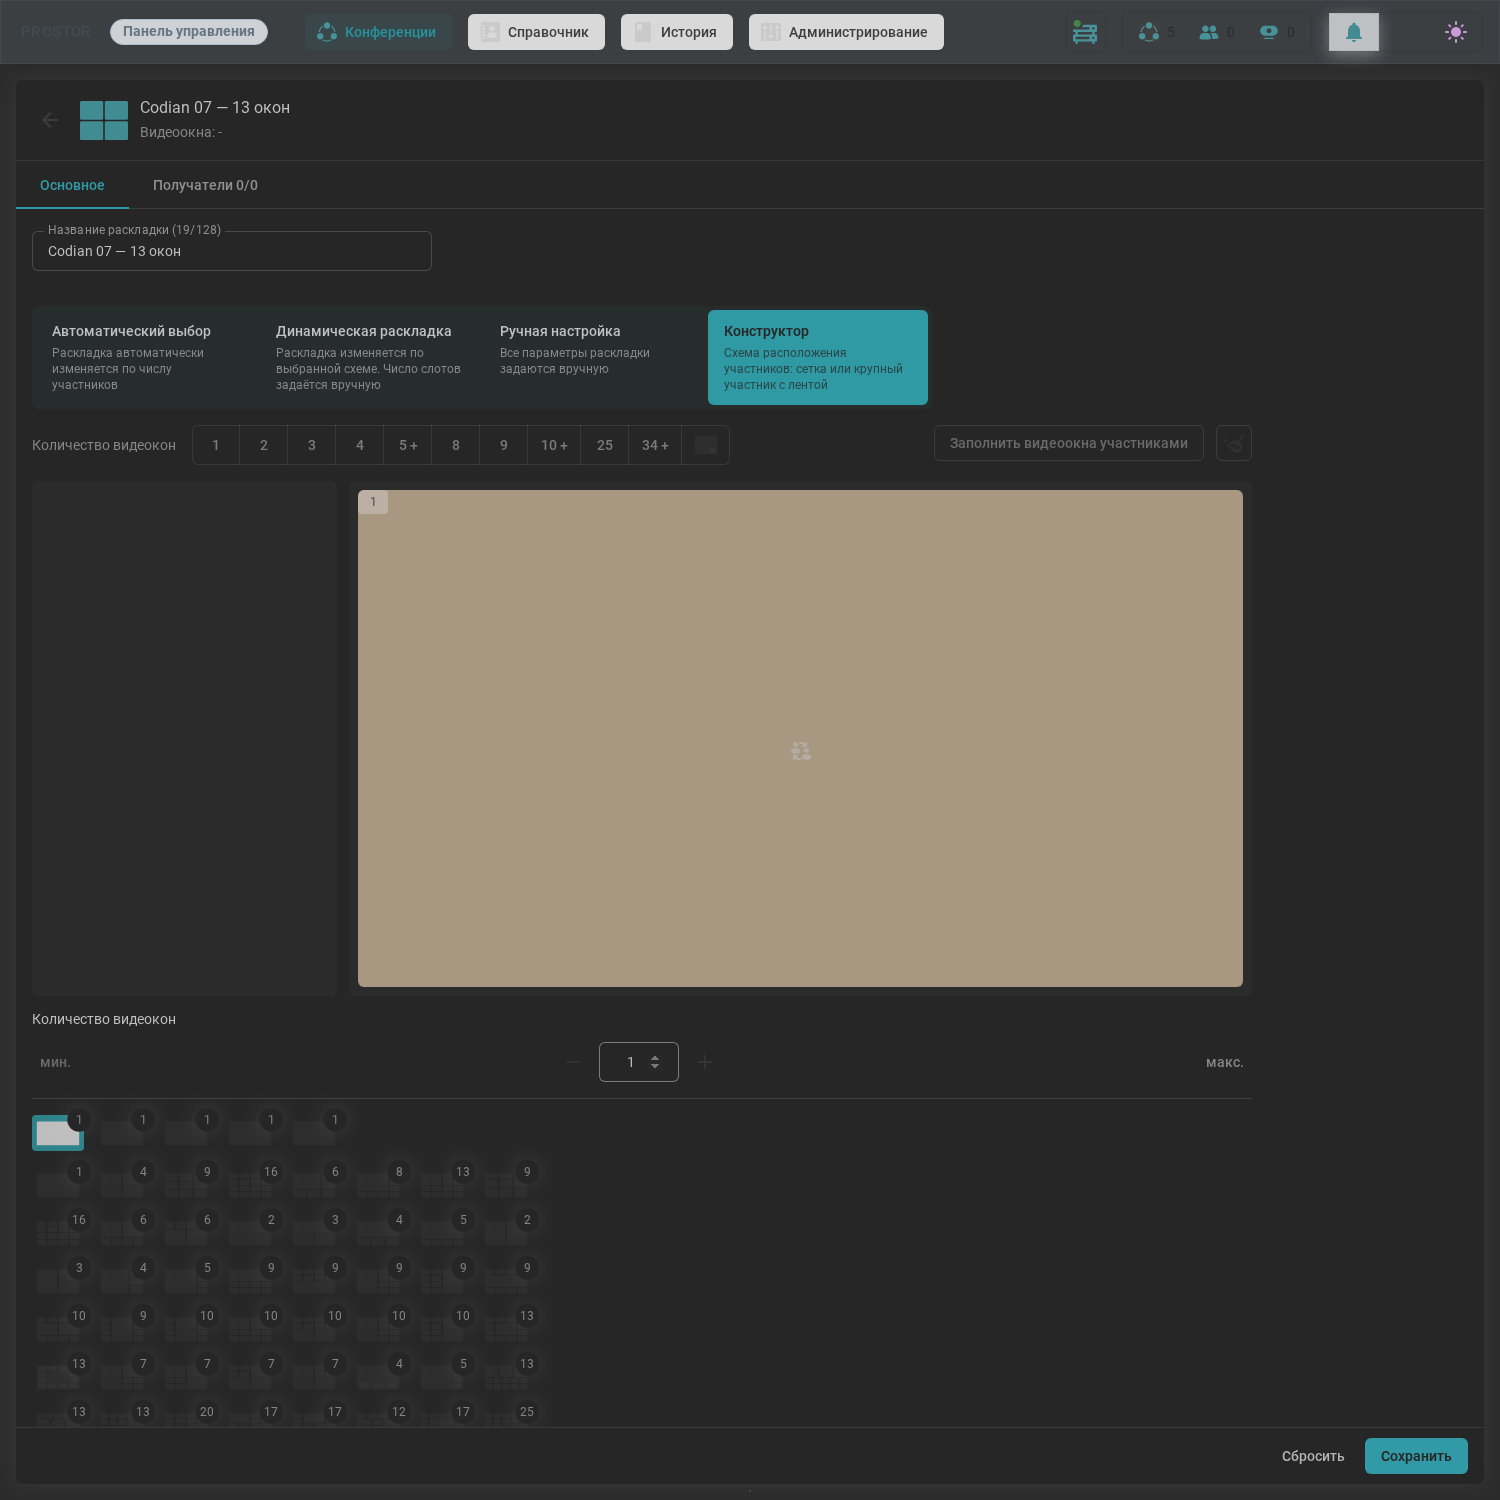
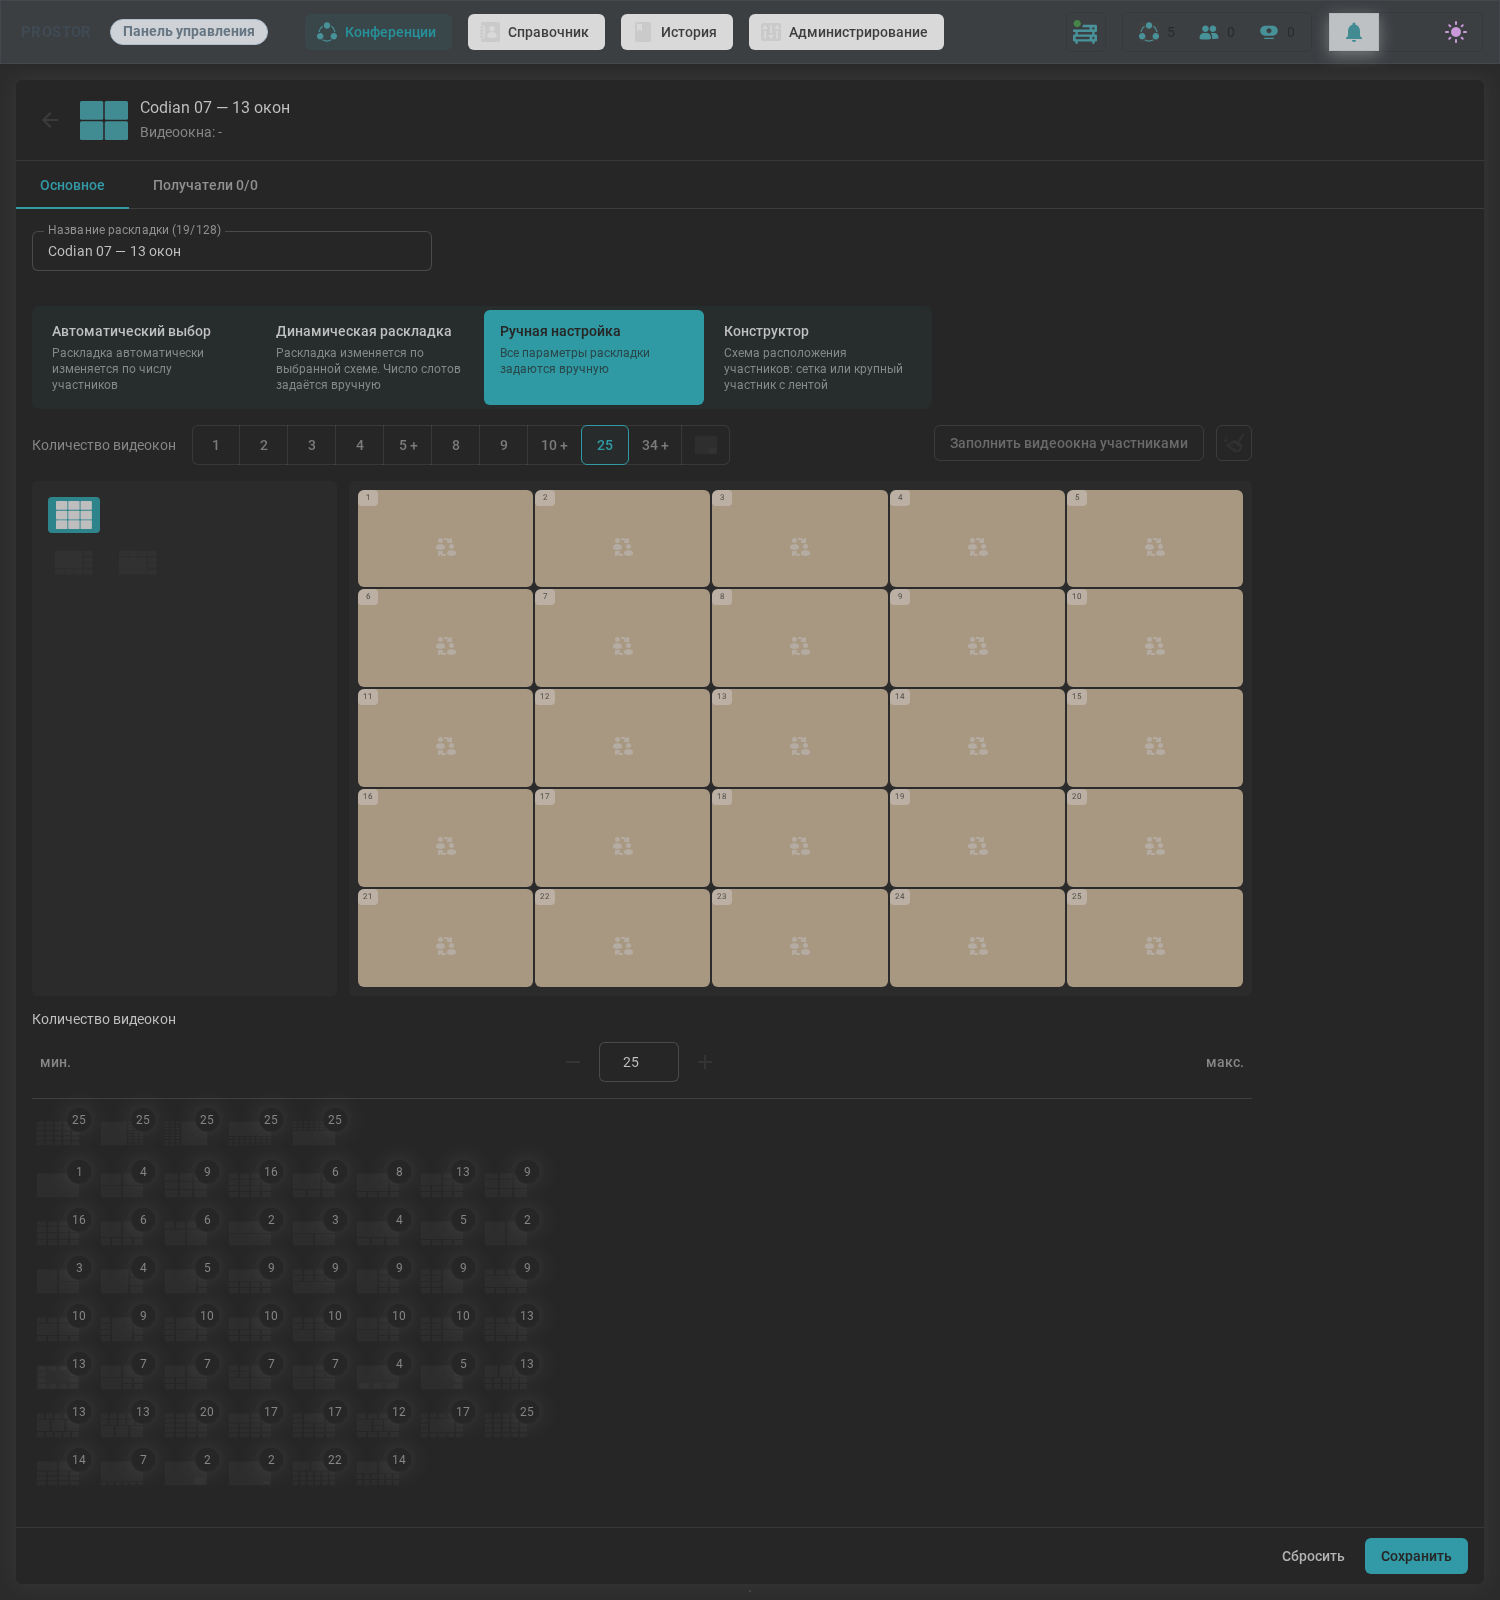
R6 T13.4: не сбрасывать manual-раскладку при повторном клике тайла
Ре-ревью T13.3 (0a495b4): 9.4/10, P0/P1 нет; P2 — безусловная запись
preset_equal_25/individual на любой клик manual-тайла: в manual+Codian
повторный клик терял codian_01 (на pre-T13.3 JS был no-op). Теперь дефолт
пишется только при выходе из конструктора (modeTileEngaged || preset vks_*),
иначе сбрасываются только engaged/pending. Live: ctor100 -> manual
(equal_25) -> codian_01 -> manual-тайл -> codian_01 сохранён; evidence JSON
обновлён, PNG переснят в состоянии выхода. P3: a11y-evidence помечен
clamp_method (Enter); doc grids.rs уточняет 16:9 для pin n<=16. MANIFEST
214/214.

diff --git a/client/pnm-frontend/deployed/pnm/codian-layouts.js b/client/pnm-frontend/deployed/pnm/codian-layouts.js
@@ -1117,10 +1117,16 @@
       '[data-qa="layout-mode-selector-manual"], [data-qa="layout-mode-selector-auto"], [data-qa="layout-mode-selector-dynamic"]'
     );
     if (!tile) return;
+    var editor = layoutEditor();
+    var value = editor && editor.modifiedValue ? editor.modifiedValue : null;
+    var preset = value && typeof value.preset === 'string' ? value.preset : '';
+    // Сброс дефолта — только при выходе ИЗ конструктора. Клик по уже
+    // активному manual-тайлу в manual+codian — вендорский no-op; безусловная
+    // запись equal_25 теряла выбранную Codian-схему (регресс T13.3).
+    var wasConstructor = modeTileEngaged || preset.indexOf('vks_') === 0;
     modeTileEngaged = false;
     pendingAdopt = null;
-    if (tile.getAttribute('data-qa') !== 'layout-mode-selector-manual') return;
-    var editor = layoutEditor();
+    if (!wasConstructor || tile.getAttribute('data-qa') !== 'layout-mode-selector-manual') return;
     if (!editor || typeof editor.editValueField !== 'function') return;
     try {
       editor.editValueField('preset', 'preset_equal_25');

diff --git a/crates/vks-layout/src/grids.rs b/crates/vks-layout/src/grids.rs
@@ -1,6 +1,8 @@
 //! Конструктор «Схема расположения участников»: параметрические раскладки
 //! `vks_grid_<n>` (равномерная галерея) и `vks_pin_{l,r,t,b}_<n>`
 //! (крупный участник + лента 16:9 миниатюр), n — число окон (последний сегмент id).
+//! Лента 16:9 действует для `n <= 16`; при больших n миниатюры — тонкие полосы,
+//! чтобы сохранить крупное окно (16:9 для каждой физически не помещается).
 //!
 //! Опции порта `meeting-grid-layout` кодируются перед числом окон:
 //! `g<px>` — зазор между окнами, `m<px>` — внешние поля (`vks_grid_g12_m24_9`,
@@ -22,7 +24,8 @@
 //! Инварианты (проверяются в `tests/grids.rs`):
 //! * окон ровно `n`;
 //! * окна внутри холста, не пересекаются, соблюдают поля;
-//! * у галереи все ячейки равны, у pin миниатюры 16:9 и не крупнее крупного;
+//! * у галереи все ячейки равны, у pin миниатюры не крупнее крупного и 16:9
+//!   при `n <= 16` (тест закрепляет именно этот диапазон);
 //! * координаты конечны; целочисленный разрез не даёт щелей/наложений на 1 px.
 
 use crate::preset::{CalculatedSlot, SlotRect};

diff --git a/docs/implementation/ROUND6_MASTER_TASKS_2026-10-23.md b/docs/implementation/ROUND6_MASTER_TASKS_2026-10-23.md
@@ -288,7 +288,7 @@ error перечисляет grid, release-note SIP UAS, «970→факт».
   abonent_id_over_contact_and_call_string`); release-note SIP UAS и «970→факт»
   сделаны в T6.
 
-### Статус T13 (финальное ревью T13.2)
+### Статус T13 (T13.4 — ре-ревью)
 - [ ] T13 — реализовано: вендорская разметка `.dynamic-layout-configurator-counter`
   (`__text`, `.counter`, `.counter-center-segment`, `counter__button` как
   TcButton-контейнер, `input[type=number][max=100][min=1]`), кнопки
@@ -336,10 +336,20 @@ error перечисляет grid, release-note SIP UAS, «970→факт».
     настройка» → `preset_equal_25/manual/25`, active tile manual, ctor active
     нет; возврат в конструктор → `vks_grid_25`; 0+blur → `vks_grid_1`,
     active=false. `t13-a11y-and-clamp.json` перегенерирован (wrapper aria=null).
-  Известное ограничение (P3, не регрессия T13.3): у `vks_pin_*_100` 99
-  миниатюр — полосы 144×7 (1 крупное окно + лента), документированный 16:9
-  действует для pin до 16 окон; контракт T13 — количество/перестройка/save.
-  Осталось: ре-ревью T13.3 (цель ≥9.5).
+  Ре-ревью T13.3 (`0a495b4`): 9.4/10, P0/P1 нет; P2 — новый регресс: клик по
+  уже активному manual-тайлу в manual+Codian сбрасывал `codian_01` на
+  `preset_equal_25` (запись дефолта была безусловной). Исправлено в T13.4:
+  дефолт пишется только при выходе из конструктора (`wasConstructor =
+  modeTileEngaged || preset.startsWith('vks_')`), иначе — только очистка
+  engaged/pending. Live `t13-manual-tile-exit.json`: ctor100 → manual
+  (equal_25/manual/25) → Codian `codian_01` → повторный manual-тайл →
+  `codian_01` сохранён (s5), tiles manual, наши ошибки отсутствуют; PNG
+  переснят в состоянии выхода (manual/25). `t13-a11y-and-clamp.json`
+  дополнен `clamp_method` (Enter vs blur-путь).
+  Известное ограничение (P3, не регрессия T13): у `vks_pin_*_100` 99
+  миниатюр — полосы 144×7 (1 крупное окно + лента); 16:9 действует для pin
+  `n <= 16` (уточнено в doc `grids.rs`), контракт T13 — количество/сборка/save.
+  Осталось: ре-ревью T13.4 (цель ≥9.5).
 
 Из T2 (P1): session-route тест «auto→Конструктор не дёргает POST
 /api/v3/ui/video_layouts/mode» (в конференц-редакторе switchLayoutMode нет,
